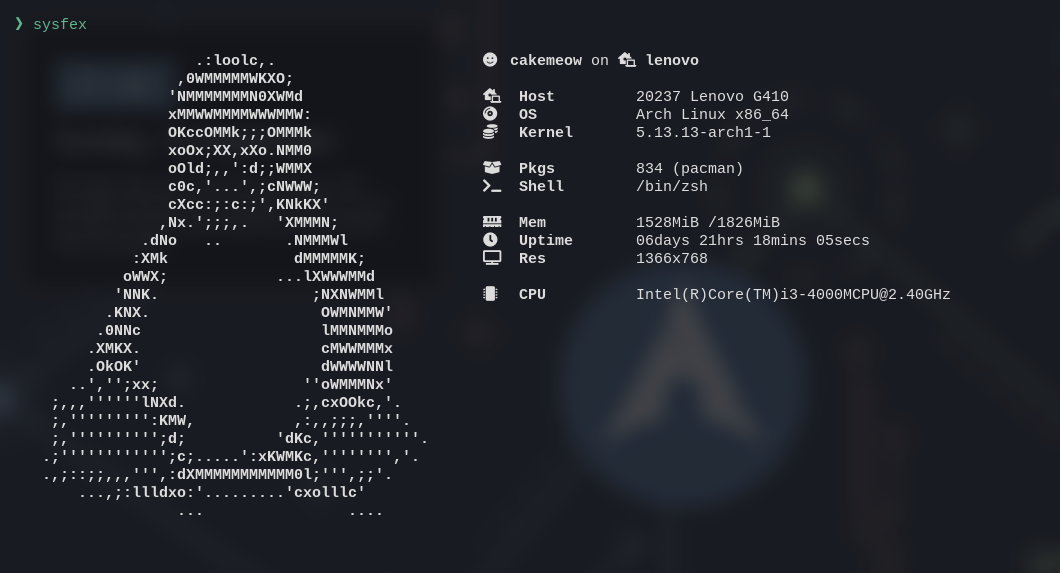
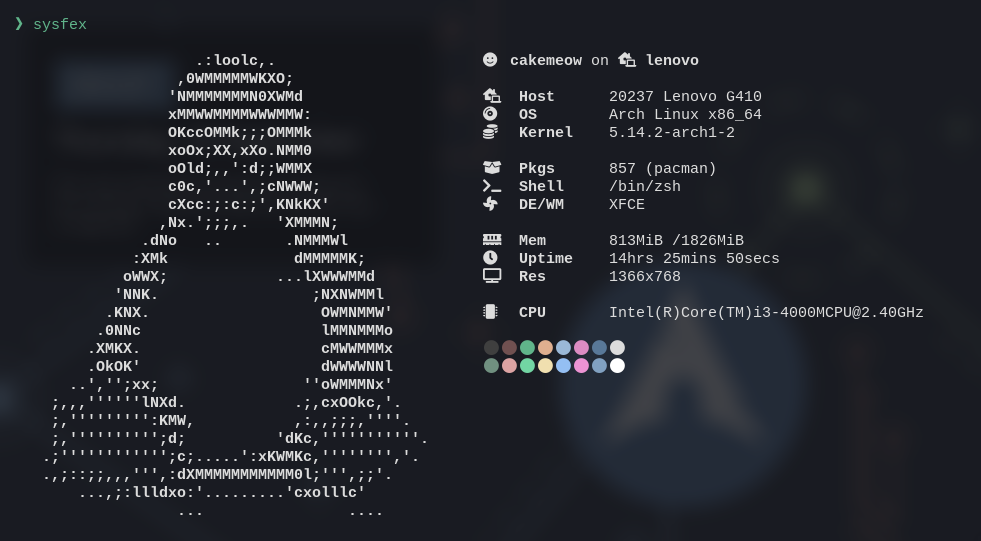
Changed stuffs. Check description

diff --git a/src/sysfex.cpp b/src/sysfex.cpp
@@ -26,9 +26,6 @@ using std::string;
 #include "fetch_functions.h"
 
 
-void newline() { cout<<endl; }
-
-
 int main(int argc, const char* argv[])
 {
     // Read the configurations
@@ -45,12 +42,16 @@ int main(int argc, const char* argv[])
         *(newline),
         *(pkgs),
         *(shell),
+        *(de),
         *(newline),
         *(ram),
         *(uptime),
         *(resolution),
         *(newline),
-        *(cpu)
+        *(cpu),
+        *(newline),
+        *(colors_1),
+        *(colors_2)
     };
     int current_func = 0;
 
@@ -59,7 +60,7 @@ int main(int argc, const char* argv[])
         throw std::runtime_error("Failed to access utsname.h :(");
 
     // Do this when an arguement for a flag is not provided
-    #define _ARGUEMENT_NOT_PROVIDED_ \
+    #define __ARGUEMENT_NOT_PROVIDED__ \
     { \
         cout<<"You must provide an arguement!"<<endl; \
         return 1; \
@@ -81,7 +82,7 @@ int main(int argc, const char* argv[])
             if(i!=argc-1)
                 conf["ascii"] = argv[++i];
             else
-                _ARGUEMENT_NOT_PROVIDED_
+                __ARGUEMENT_NOT_PROVIDED__
         }
 
         else if(!(strcmp(argv[i], "--ascii-dir")))
@@ -89,7 +90,7 @@ int main(int argc, const char* argv[])
             if(i!=argc-1)
                 conf["ascii_dir"] = argv[++i];
             else
-                _ARGUEMENT_NOT_PROVIDED_
+                __ARGUEMENT_NOT_PROVIDED__
         }
 
         else if(!(strcmp(argv[i], "--icons")))
@@ -97,12 +98,13 @@ int main(int argc, const char* argv[])
             if(i!=argc-1)
                 conf["icons"] = argv[++i];
             else
-                _ARGUEMENT_NOT_PROVIDED_
+                __ARGUEMENT_NOT_PROVIDED__
         }
 
         else
         {
             cout<<"Incorrect command"<<endl;
+            help();
             return 1;
         }
     }
@@ -159,6 +161,9 @@ int main(int argc, const char* argv[])
                 // Get the length of the current line
                 // Don't use curr_line.size() for the sake of humanity
                 // As there can be unicode characters in the line too
+
+                // A bit help here too, this thing does not work with 
+                // Chinease characters, probably of many more languages
                 int curr_line_len = 0;
                 for(auto ch:curr_line)
                     curr_line_len+=((ch & 0xc0)!=0x80);

diff --git a/src/fetch_functions.h b/src/fetch_functions.h
@@ -157,6 +157,17 @@ void uptime()
 }
 
 
+// Desktop environment / Window manager /  Whatever
+void de()
+{
+    const char* desktop_session;
+    if((desktop_session = std::getenv("XDG_CURRENT_DESKTOP")) or (desktop_session = std::getenv("DESKTOP_SESSION")))
+        print("", "DE/WM", desktop_session);
+    else
+        cout<<endl;
+}
+
+
 //Package manager stuffs
 int Pacman(string path)
 {
@@ -218,10 +229,8 @@ void pkgs()
 void resolution()
 {
     Display* disp = XOpenDisplay(NULL);
-    if(!disp) {
-	std::cout<<std::endl;	
-	return;
-    }
+    if(!disp)
+        __ABORT__
 
     Screen*  scrn = DefaultScreenOfDisplay(disp);
     int height = scrn->height;
@@ -259,4 +268,26 @@ void cpu()
     cpu = cpu.substr(modelname.length(), cpu.length()-(modelname.length()));
 
     print("", "CPU", cpu);
+}
+
+
+
+// Print color bars
+void colors_1()
+{
+    string s;
+
+    for(int i = 30; i < 38; i++)
+        s = s+"\e["+std::to_string(i)+"m⬤\e[0m ";
+
+    cout<<string(stoi(conf["pregap"]), ' ')<<s<<endl;
+}
+void colors_2()
+{
+    string s;
+
+    for(int i = 90; i < 98; i++)
+        s = s+"\e["+std::to_string(i)+"m⬤\e[0m ";
+
+    cout<<string(stoi(conf["pregap"]), ' ')<<s<<endl;
 }

diff --git a/src/functions.h b/src/functions.h
@@ -6,6 +6,10 @@
 std::map<string, string> conf;
 
 
+// Print line break
+void newline() { cout<<endl; }
+
+
 // Printing stuffs
 void print(string icon, string key, auto value)
 {
@@ -69,7 +73,13 @@ void init_config()
 // The help message
 void help()
 {
-    cout<<"Helppppppppp us to write documentation and help function for this tool UwU"<<endl;
+    cout<<BOLD<<"Sysfex"<<UBOLD<<" - another fetch tool written in mostly C++"<<endl;
+    cout<<endl;
+    cout<<BOLD<<"Available commands:"<<UBOLD<<endl;
+    print("", "sysfex --help", "Print this screen");
+    print("", "sysfex --ascii <value>", "If value == 0, don't print the ascii art, else do");
+    print("", "sysfex --ascii-dir <path-to-ascii>", "Specify the file which you want to be shown as ascii-art");
+    print("", "sysfex --icons <value>", "If value == 0, don't print font-icons beside informations, else do");
 }
 
 
